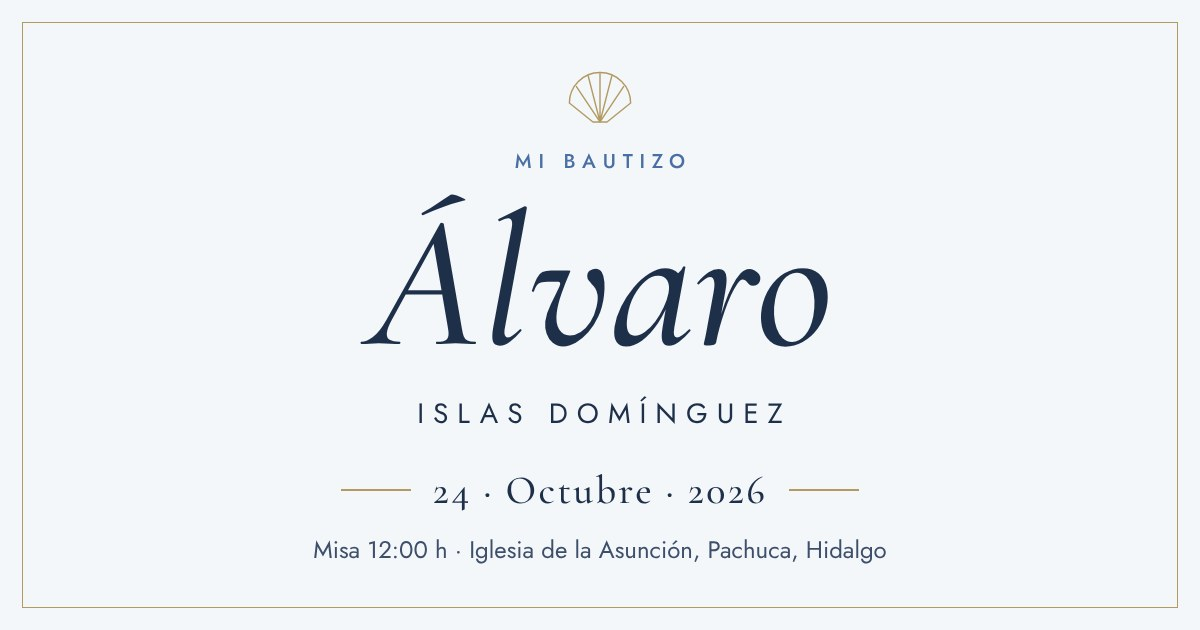
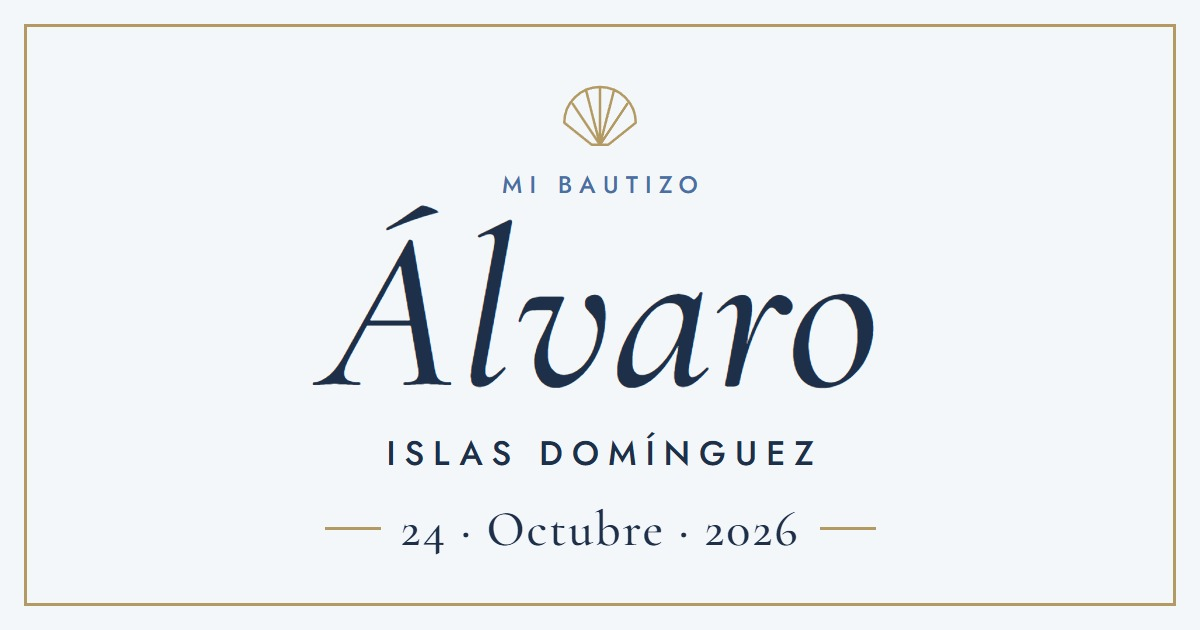
fix img

diff --git a/scripts/og.html b/scripts/og.html
@@ -1,30 +1,33 @@
 <!doctype html>
 <!-- Plantilla de la imagen que aparece al compartir el link (public/og.jpg, 1200x630).
+     WhatsApp casi siempre la muestra como miniatura cuadrada de ~100 px, recortando
+     el centro: por eso todo va dentro del cuadro central (x 285–915), con letra
+     grande y líneas gruesas. El texto chico se vuelve ruido a ese tamaño, y la hora
+     y el lugar ya aparecen junto a la imagen (og:description en index.html).
      Si cambian los datos, edita el texto, ábrela en el navegador con el proyecto
-     instalado y toma una captura de 1200x630. -->
+     instalado y toma una captura de 1200x630 con el zoom del navegador al 100 %. -->
 <html lang="es">
 <head>
 <meta charset="utf-8">
 <link rel="stylesheet" href="../node_modules/@fontsource/cormorant-garamond/latin-500.css">
 <link rel="stylesheet" href="../node_modules/@fontsource/cormorant-garamond/latin-500-italic.css">
-<link rel="stylesheet" href="../node_modules/@fontsource/jost/latin-400.css">
 <link rel="stylesheet" href="../node_modules/@fontsource/jost/latin-500.css">
 <style>
   body { margin: 0; }
-  .lienzo { width: 1200px; height: 630px; box-sizing: border-box; padding: 22px; background: #F4F7FA; color: #1E2F4A; font-family: 'Jost', sans-serif; }
-  .marco { height: 100%; box-sizing: border-box; border: 1.5px solid #B29A62; display: flex; flex-direction: column; align-items: center; justify-content: center; gap: 18px; }
-  .etiqueta { font-size: 20px; font-weight: 500; letter-spacing: 0.34em; margin-right: -0.34em; text-transform: uppercase; color: #4A6FA5; }
-  .nombre { font-family: 'Cormorant Garamond', serif; font-style: italic; font-weight: 500; font-size: 190px; line-height: 0.95; }
-  .apellidos { font-size: 28px; letter-spacing: 0.32em; margin-right: -0.32em; text-transform: uppercase; }
-  .fecha { display: flex; align-items: center; gap: 22px; margin-top: 14px; font-family: 'Cormorant Garamond', serif; font-weight: 500; font-size: 40px; letter-spacing: 0.06em; }
-  .linea { width: 70px; height: 1.5px; background: #B29A62; }
-  .lugar { font-size: 24px; color: #3D4F6B; }
+  .lienzo { width: 1200px; height: 630px; box-sizing: border-box; padding: 24px; background: #F4F7FA; color: #1E2F4A; font-family: 'Jost', sans-serif; }
+  .marco { height: 100%; box-sizing: border-box; border: 3px solid #B29A62; display: flex; flex-direction: column; align-items: center; justify-content: center; }
+  .concha { display: block; margin-bottom: 14px; }
+  .etiqueta { font-size: 24px; font-weight: 500; letter-spacing: 0.3em; margin-right: -0.3em; text-transform: uppercase; color: #4A6FA5; }
+  .nombre { margin-top: 2px; font-family: 'Cormorant Garamond', serif; font-style: italic; font-weight: 500; font-size: 228px; line-height: 0.95; }
+  .apellidos { margin-top: 8px; font-size: 34px; font-weight: 500; letter-spacing: 0.26em; margin-right: -0.26em; text-transform: uppercase; }
+  .fecha { display: flex; align-items: center; gap: 20px; margin-top: 26px; font-family: 'Cormorant Garamond', serif; font-weight: 500; font-size: 50px; line-height: 1; letter-spacing: 0.04em; }
+  .linea { width: 56px; height: 3px; background: #B29A62; }
 </style>
 </head>
 <body>
 <div class="lienzo">
   <div class="marco">
-    <svg width="76" height="66" viewBox="0 0 64 56" fill="none" stroke="#B29A62" stroke-width="1.2" stroke-linecap="round" stroke-linejoin="round">
+    <svg class="concha" width="88" height="77" viewBox="0 0 64 56" fill="none" stroke="#B29A62" stroke-width="1.8" stroke-linecap="round" stroke-linejoin="round">
       <path d="M6 34 A26 26 0 0 1 58 34 L38 50 H26 Z"/>
       <path d="M32 50 L12 20 M32 50 L22 11 M32 50 L32 8 M32 50 L42 11 M32 50 L52 20"/>
     </svg>
@@ -32,7 +35,6 @@
     <div class="nombre">Álvaro</div>
     <div class="apellidos">Islas Domínguez</div>
     <div class="fecha"><span class="linea"></span><span>24 · Octubre · 2026</span><span class="linea"></span></div>
-    <div class="lugar">Misa 12:00 h · Iglesia de la Asunción, Pachuca, Hidalgo</div>
   </div>
 </div>
 </body>

diff --git a/index.html b/index.html
@@ -8,12 +8,13 @@
     <meta name="theme-color" content="#F4F7FA" />
     <link rel="icon" type="image/svg+xml" href="./favicon.svg" />
 
-    <!-- Vista previa al compartir el link (WhatsApp, Facebook, etc.) -->
+    <!-- Vista previa al compartir el link (WhatsApp, Facebook, etc.).
+         Al cambiar public/og.jpg, sube el número de ?v= para que no usen la imagen en caché. -->
     <meta property="og:type" content="website" />
     <meta property="og:locale" content="es_MX" />
     <meta property="og:title" content="Bautizo de Álvaro Islas Domínguez" />
     <meta property="og:description" content="Sábado 24 de octubre de 2026 · Misa 12:00 h · Iglesia de la Asunción, Pachuca, Hidalgo" />
-    <meta property="og:image" content="%VITE_SITE_URL%/og.jpg" />
+    <meta property="og:image" content="%VITE_SITE_URL%/og.jpg?v=2" />
     <meta property="og:image:width" content="1200" />
     <meta property="og:image:height" content="630" />
     <meta name="twitter:card" content="summary_large_image" />

diff --git a/README.md b/README.md
@@ -25,9 +25,11 @@ Todo el contenido está en **`src/config.ts`**: nombres, fecha, horas, lugares, 
 
 ## Imagen al compartir el link (WhatsApp)
 
-`public/og.jpg` es la imagen que aparece en la vista previa. Su plantilla está en `scripts/og.html`; si cambian los datos, edítala, ábrela en el navegador y guarda una captura de 1200 × 630 px como `public/og.jpg`.
+`public/og.jpg` es la imagen que aparece en la vista previa. Su plantilla está en `scripts/og.html`; si cambian los datos, edítala, ábrela en el navegador (con el zoom al 100 %) y guarda una captura de 1200 × 630 px como `public/og.jpg`.
 
-WhatsApp guarda la vista previa en caché: si ya compartiste el link y luego cambias la imagen, puede tardar en actualizarse.
+WhatsApp casi siempre la muestra como una miniatura cuadrada de unos 100 px, recortando el centro. Por eso la plantilla usa letra grande y deja todo dentro del cuadro central; evita agregarle texto chico, porque a ese tamaño se ve pixeleado.
+
+WhatsApp guarda la vista previa en caché: si cambias la imagen, sube el número de `?v=` en la etiqueta `og:image` de `index.html`. Para probar un link que ya compartiste, agrega algo al final, por ejemplo `.../?v=2`.
 
 ## Publicar en GitHub Pages
 
